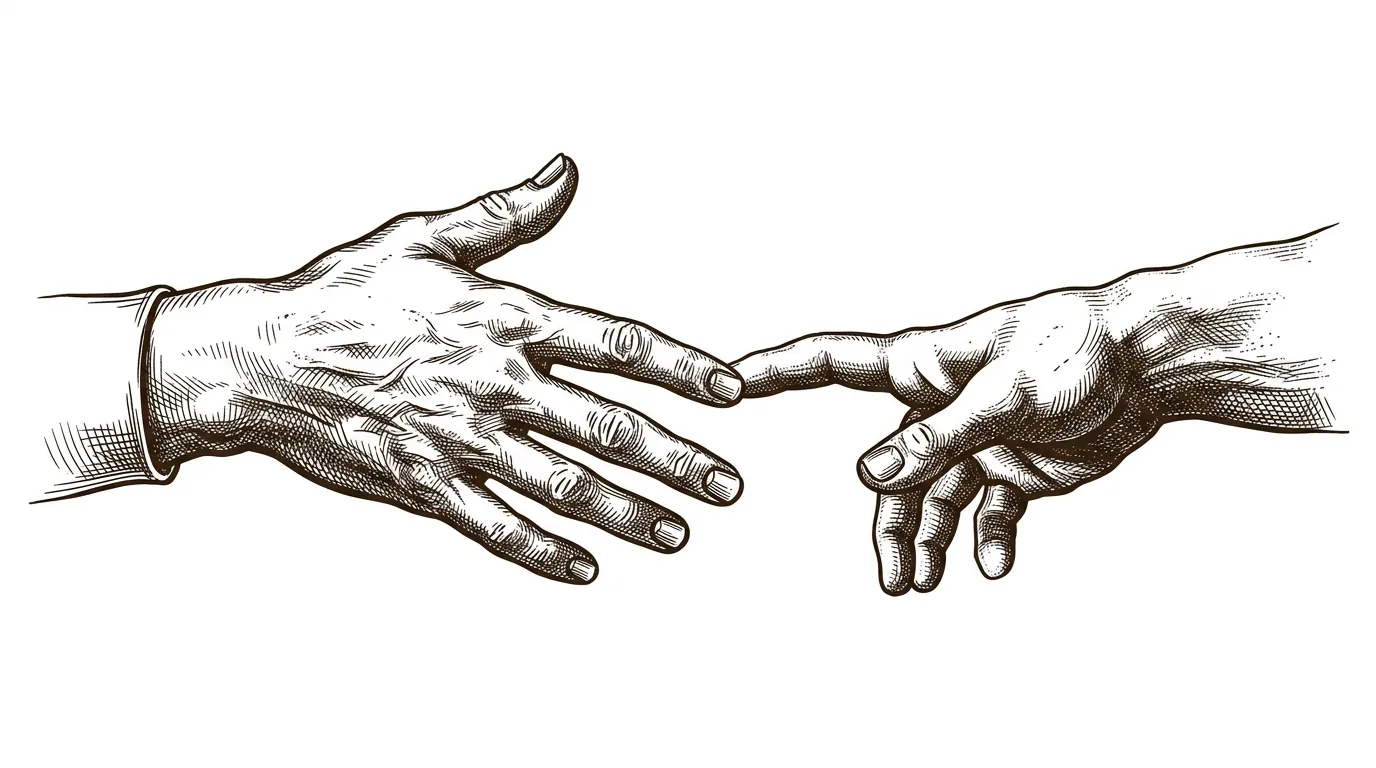
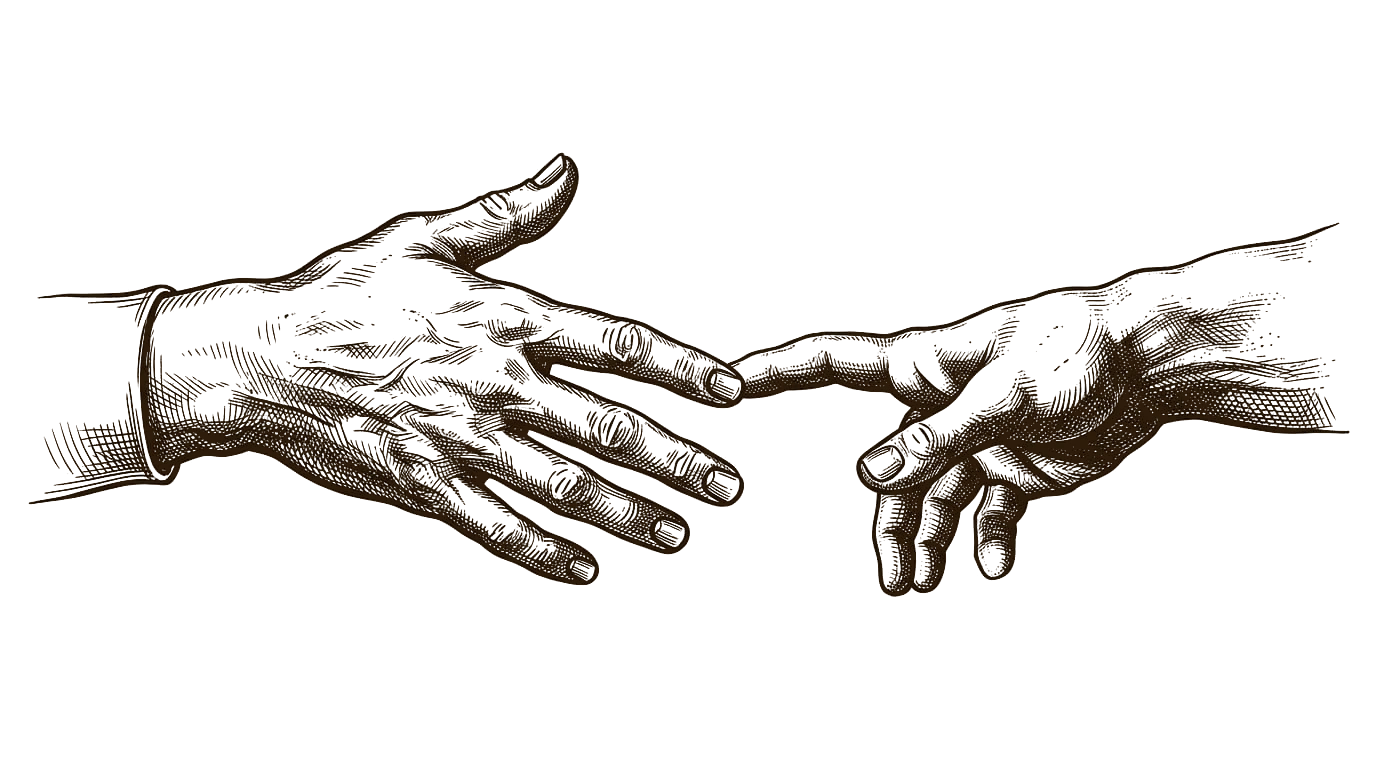
fix(footer): make handshake illustration background transparent and update picture sources

diff --git a/index.html b/index.html
@@ -523,7 +523,7 @@
       <picture>
         <source srcset="/assets/hand-of-god-handshake.webp" type="image/webp">
         <img 
-          src="/assets/hand-of-god-handshake.jpg" 
+          src="/assets/hand-of-god-handshake.png" 
           alt="Vintage engraved illustration of two hands reaching out to shake hands" 
           class="footer__illustration" 
           loading="lazy"
@@ -566,48 +566,6 @@
       // Year auto-update
       var yearEl = document.getElementById('year');
       if (yearEl) yearEl.textContent = new Date().getFullYear();
-
-      // Pixel-level Background Removal (converts white background into 100% transparent PNG)
-      (function removeImageBackground() {
-        var img = document.querySelector('.footer__illustration');
-        if (!img) return;
-
-        function process() {
-          try {
-            var canvas = document.createElement('canvas');
-            var ctx = canvas.getContext('2d');
-            canvas.width = img.naturalWidth || img.width || 800;
-            canvas.height = img.naturalHeight || img.height || 450;
-            ctx.drawImage(img, 0, 0, canvas.width, canvas.height);
-
-            var imgData = ctx.getImageData(0, 0, canvas.width, canvas.height);
-            var data = imgData.data;
-
-            for (var i = 0; i < data.length; i += 4) {
-              var r = data[i];
-              var g = data[i + 1];
-              var b = data[i + 2];
-              var brightness = (r + g + b) / 3;
-
-              if (brightness > 165) {
-                var alpha = Math.max(0, Math.min(255, (255 - brightness) * (255 / 90)));
-                data[i + 3] = Math.round(alpha);
-              }
-            }
-
-            ctx.putImageData(imgData, 0, 0);
-            img.src = canvas.toDataURL('image/png');
-            img.style.mixBlendMode = 'normal';
-            img.style.filter = 'none';
-          } catch (e) {}
-        }
-
-        if (img.complete && img.naturalWidth !== 0) {
-          process();
-        } else {
-          img.addEventListener('load', process);
-        }
-      })();
 
       // Animated Hamburger & Nav Dropdown
       var menuBtn = document.getElementById('menu-btn');

diff --git a/public/index.html b/public/index.html
@@ -523,7 +523,7 @@
       <picture>
         <source srcset="/assets/hand-of-god-handshake.webp" type="image/webp">
         <img 
-          src="/assets/hand-of-god-handshake.jpg" 
+          src="/assets/hand-of-god-handshake.png" 
           alt="Vintage engraved illustration of two hands reaching out to shake hands" 
           class="footer__illustration" 
           loading="lazy"
@@ -566,48 +566,6 @@
       // Year auto-update
       var yearEl = document.getElementById('year');
       if (yearEl) yearEl.textContent = new Date().getFullYear();
-
-      // Pixel-level Background Removal (converts white background into 100% transparent PNG)
-      (function removeImageBackground() {
-        var img = document.querySelector('.footer__illustration');
-        if (!img) return;
-
-        function process() {
-          try {
-            var canvas = document.createElement('canvas');
-            var ctx = canvas.getContext('2d');
-            canvas.width = img.naturalWidth || img.width || 800;
-            canvas.height = img.naturalHeight || img.height || 450;
-            ctx.drawImage(img, 0, 0, canvas.width, canvas.height);
-
-            var imgData = ctx.getImageData(0, 0, canvas.width, canvas.height);
-            var data = imgData.data;
-
-            for (var i = 0; i < data.length; i += 4) {
-              var r = data[i];
-              var g = data[i + 1];
-              var b = data[i + 2];
-              var brightness = (r + g + b) / 3;
-
-              if (brightness > 165) {
-                var alpha = Math.max(0, Math.min(255, (255 - brightness) * (255 / 90)));
-                data[i + 3] = Math.round(alpha);
-              }
-            }
-
-            ctx.putImageData(imgData, 0, 0);
-            img.src = canvas.toDataURL('image/png');
-            img.style.mixBlendMode = 'normal';
-            img.style.filter = 'none';
-          } catch (e) {}
-        }
-
-        if (img.complete && img.naturalWidth !== 0) {
-          process();
-        } else {
-          img.addEventListener('load', process);
-        }
-      })();
 
       // Animated Hamburger & Nav Dropdown
       var menuBtn = document.getElementById('menu-btn');

diff --git a/public/landing.html b/public/landing.html
@@ -523,7 +523,7 @@
       <picture>
         <source srcset="/assets/hand-of-god-handshake.webp" type="image/webp">
         <img 
-          src="/assets/hand-of-god-handshake.jpg" 
+          src="/assets/hand-of-god-handshake.png" 
           alt="Vintage engraved illustration of two hands reaching out to shake hands" 
           class="footer__illustration" 
           loading="lazy"
@@ -566,48 +566,6 @@
       // Year auto-update
       var yearEl = document.getElementById('year');
       if (yearEl) yearEl.textContent = new Date().getFullYear();
-
-      // Pixel-level Background Removal (converts white background into 100% transparent PNG)
-      (function removeImageBackground() {
-        var img = document.querySelector('.footer__illustration');
-        if (!img) return;
-
-        function process() {
-          try {
-            var canvas = document.createElement('canvas');
-            var ctx = canvas.getContext('2d');
-            canvas.width = img.naturalWidth || img.width || 800;
-            canvas.height = img.naturalHeight || img.height || 450;
-            ctx.drawImage(img, 0, 0, canvas.width, canvas.height);
-
-            var imgData = ctx.getImageData(0, 0, canvas.width, canvas.height);
-            var data = imgData.data;
-
-            for (var i = 0; i < data.length; i += 4) {
-              var r = data[i];
-              var g = data[i + 1];
-              var b = data[i + 2];
-              var brightness = (r + g + b) / 3;
-
-              if (brightness > 165) {
-                var alpha = Math.max(0, Math.min(255, (255 - brightness) * (255 / 90)));
-                data[i + 3] = Math.round(alpha);
-              }
-            }
-
-            ctx.putImageData(imgData, 0, 0);
-            img.src = canvas.toDataURL('image/png');
-            img.style.mixBlendMode = 'normal';
-            img.style.filter = 'none';
-          } catch (e) {}
-        }
-
-        if (img.complete && img.naturalWidth !== 0) {
-          process();
-        } else {
-          img.addEventListener('load', process);
-        }
-      })();
 
       // Animated Hamburger & Nav Dropdown
       var menuBtn = document.getElementById('menu-btn');
